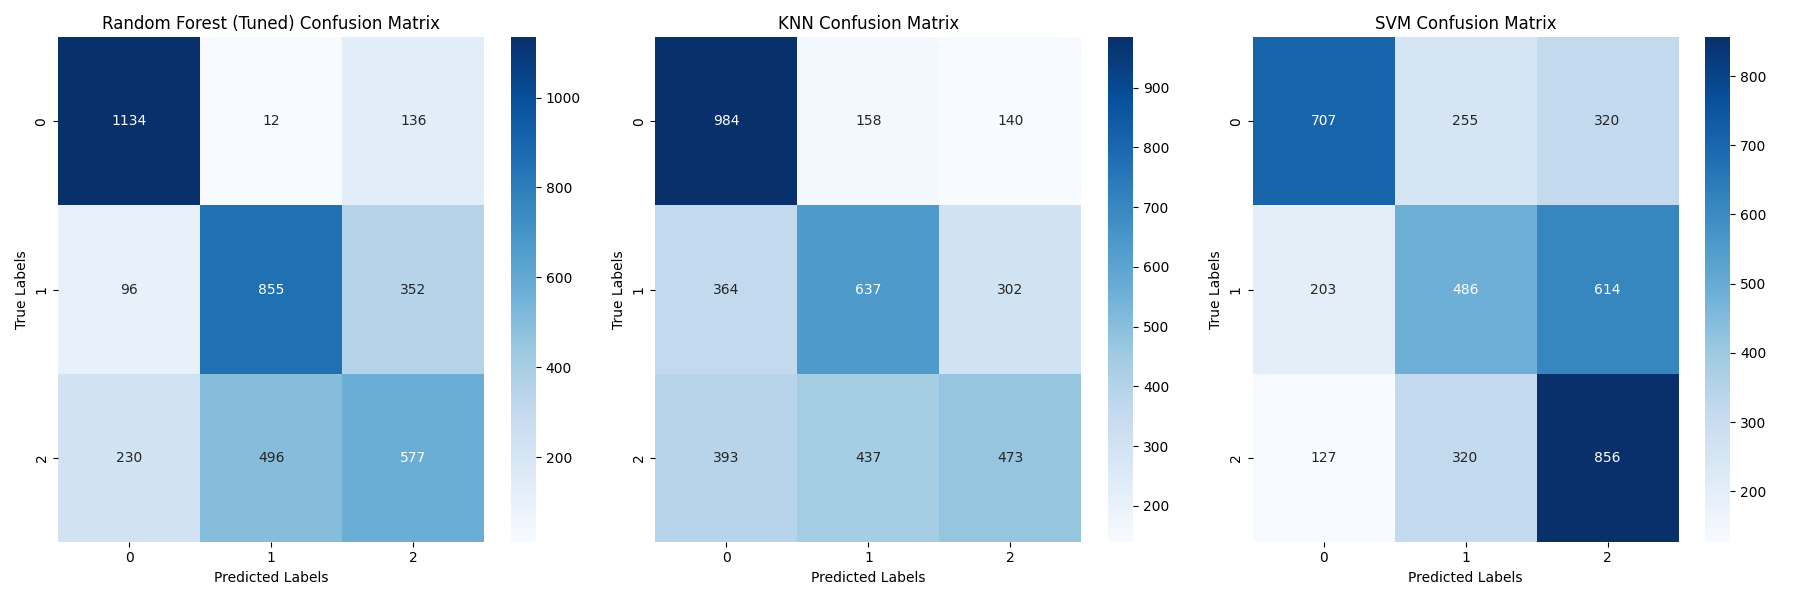
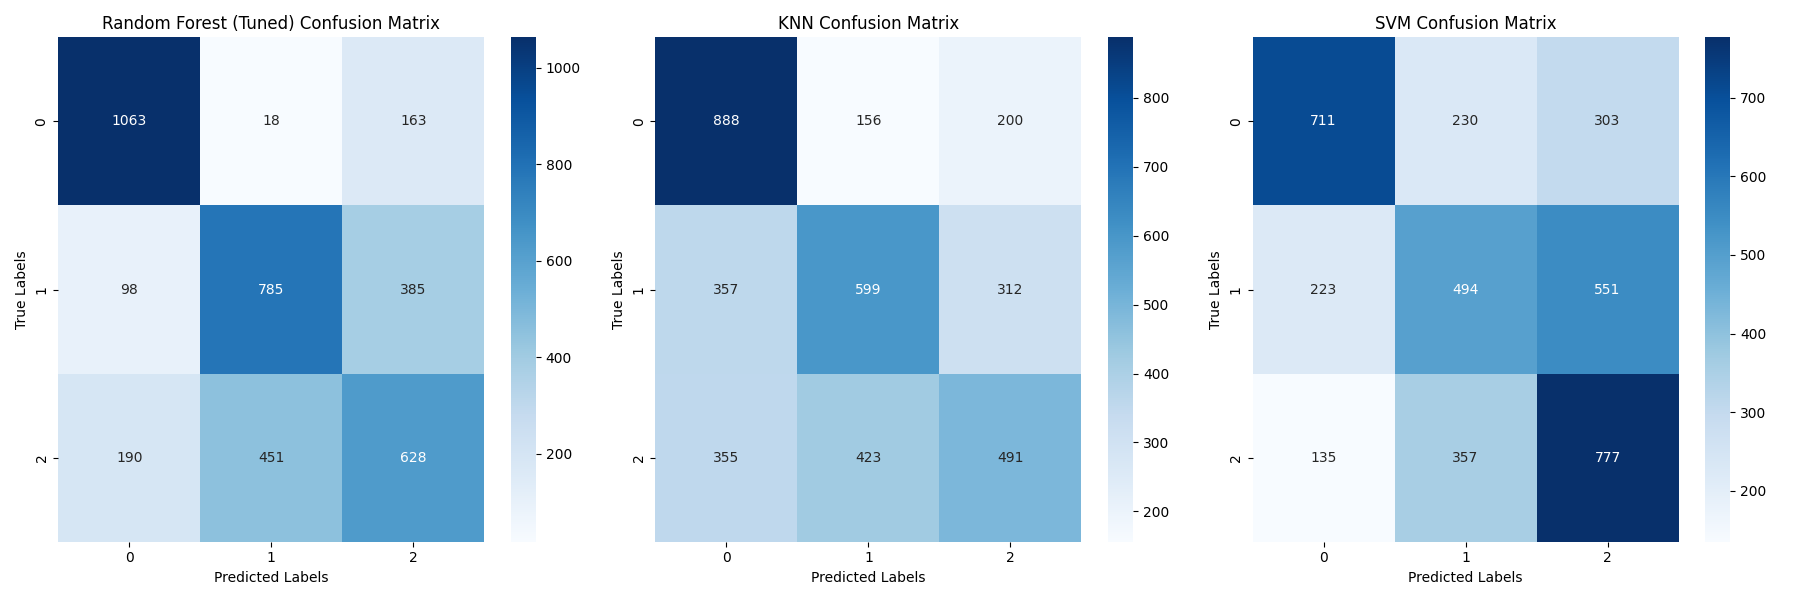
feature selection inital report done

diff --git a/outlier_detection.py b/outlier_detection.py
@@ -12,7 +12,7 @@ https://scikit-learn.org/stable/auto_examples/ensemble/plot_isolation_forest.htm
 https://github.com/spribylova/Python-Elliptic-Data/blob/main/elliptic_envelope.ipynb?source=post_page-----673a39e3b315--------------------------------
 """
 
-def detect_outliers_lof(data, numerical_columns, n_neighbors=20, contamination=0.02):
+def detect_outliers_lof(data, numerical_columns, n_neighbors=20, contamination=0.01):
     """
     Detect outliers in the given data using the Local Outlier Factor (LOF) algorithm.
     @param data - The dataset containing the numerical columns.
@@ -25,7 +25,7 @@ def detect_outliers_lof(data, numerical_columns, n_neighbors=20, contamination=0
     lof_flags = lof.fit_predict(data[numerical_columns])
     return lof_flags == -1  
 
-def detect_outliers_isoforest(data, numerical_columns, contamination=0.02, random_state=42):
+def detect_outliers_isoforest(data, numerical_columns, contamination=0.01, random_state=42):
     """
     Detect outliers in the given data using Isolation Forest algorithm.
     @param data - The dataset containing the numerical columns.
@@ -38,7 +38,7 @@ def detect_outliers_isoforest(data, numerical_columns, contamination=0.02, rando
     iso_forest_flags = iso_forest.fit_predict(data[numerical_columns])
     return iso_forest_flags == -1
 
-def detect_outliers_elliptic(data, numerical_columns, contamination=0.02, random_state=42):
+def detect_outliers_elliptic(data, numerical_columns, contamination=0.01, random_state=42):
     """
     Detect outliers in the data using the Elliptic Envelope method.
     @param data - The dataset containing the numerical columns.

diff --git a/classification.py b/classification.py
@@ -185,7 +185,7 @@ def run_rf_with_cv(data, target_column="Diabetes_012"):
     rf = RandomForestClassifier(random_state=42)
     
     # Perform 5-fold cross-validation on the training set
-    print("Performing 5-fold cross-validation for Random Forest Default")
+    print("Training and Evaluating Random Forest (Default)...")
     cv_scores = cross_val_score(rf, X_train, y_train, cv=5, scoring='f1_macro')  # Use training set only
     print(f"Mean F1-score from 5-fold CV: {np.mean(cv_scores):.4f}")
     

diff --git a/main.py b/main.py
@@ -117,7 +117,7 @@ def main(args):
     run_classifiers(selected_data, target_column="Diabetes_012")
     
     # Call this function to run a default Random Forest
-    run_rf_with_cv(selected_data, target_column="Diabetes_012")
+    #run_rf_with_cv(selected_data, target_column="Diabetes_012")
 
 if __name__ == "__main__":
     parser = argparse.ArgumentParser(description="Data Mining Project")

diff --git a/README.md b/README.md
@@ -111,7 +111,7 @@ Number of rows before cleaning: 20000
 Number of rows after cleaning: 18904
 
 Performing 5-fold cross-validation for Default Random Forest with outliers removed
-Mean F1-score from 5-fold CV: 0.6557
+Mean F1-score from 5-fold CV: 0.6757
 Accuracy: 0.6793
 Precision: 0.6728
 Recall: 0.6792
@@ -161,14 +161,21 @@ Smoker                  0.029628
 
 Combining these two methods ensures that we capture both non-linear(mutual info) and linear (rf) relationships, resulting in a more comprehensive selection of features that are most relevant to the task at hand
 
+Final Selected Features:
+Age
+PhysHlth
+Education
+GenHlth
+MentHlth
+BMI
+
+
 The top features selected by both methods are combined and we select the best 6 features, after merging the lists given by both methods. However, we also make sure to do a correlation analysis of these top features selected for better clarity in our selection to make sure they aren't strongly correlated with one another using a heatmap. 
 
 ![Top Features Correlation Matrix](Correlation_Matrix_Selected_Features.png)
 
 
 ### Clustering
-
-
 
 ### Classification
 
